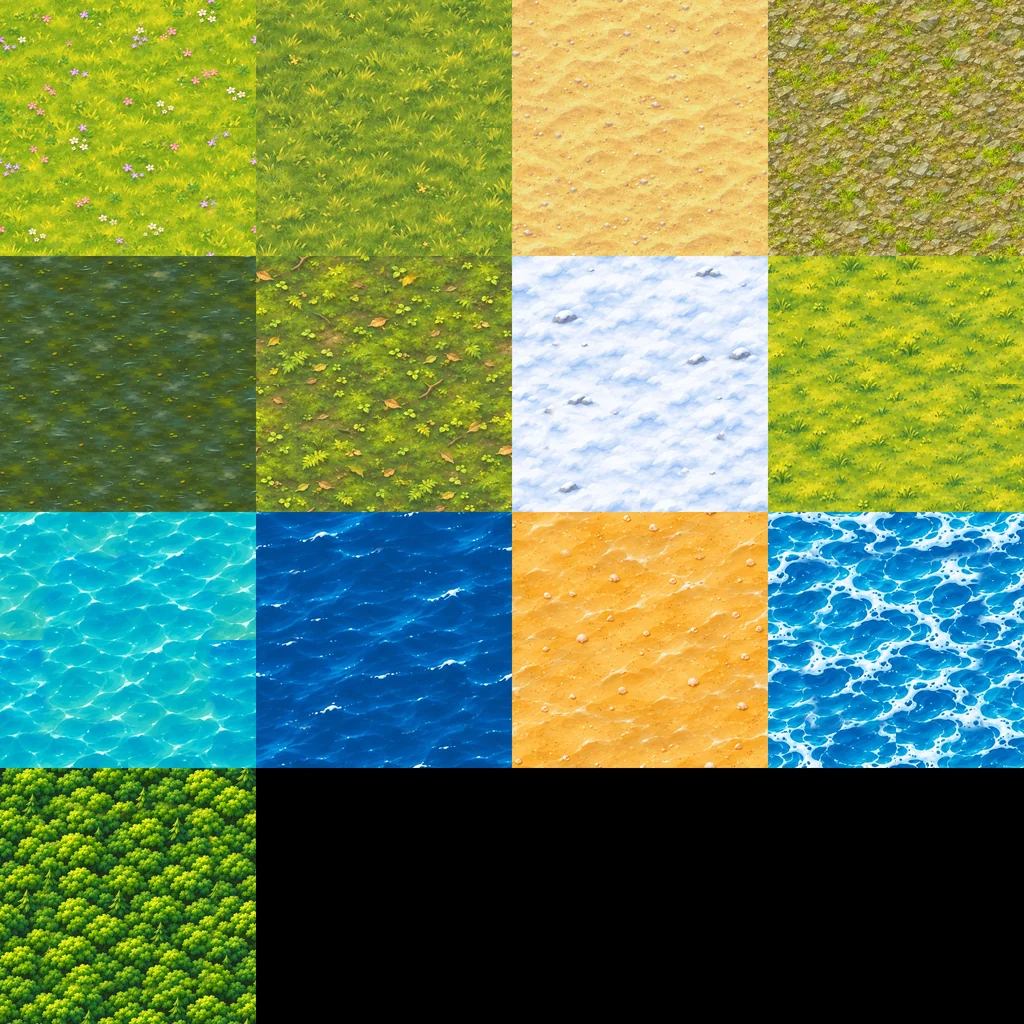
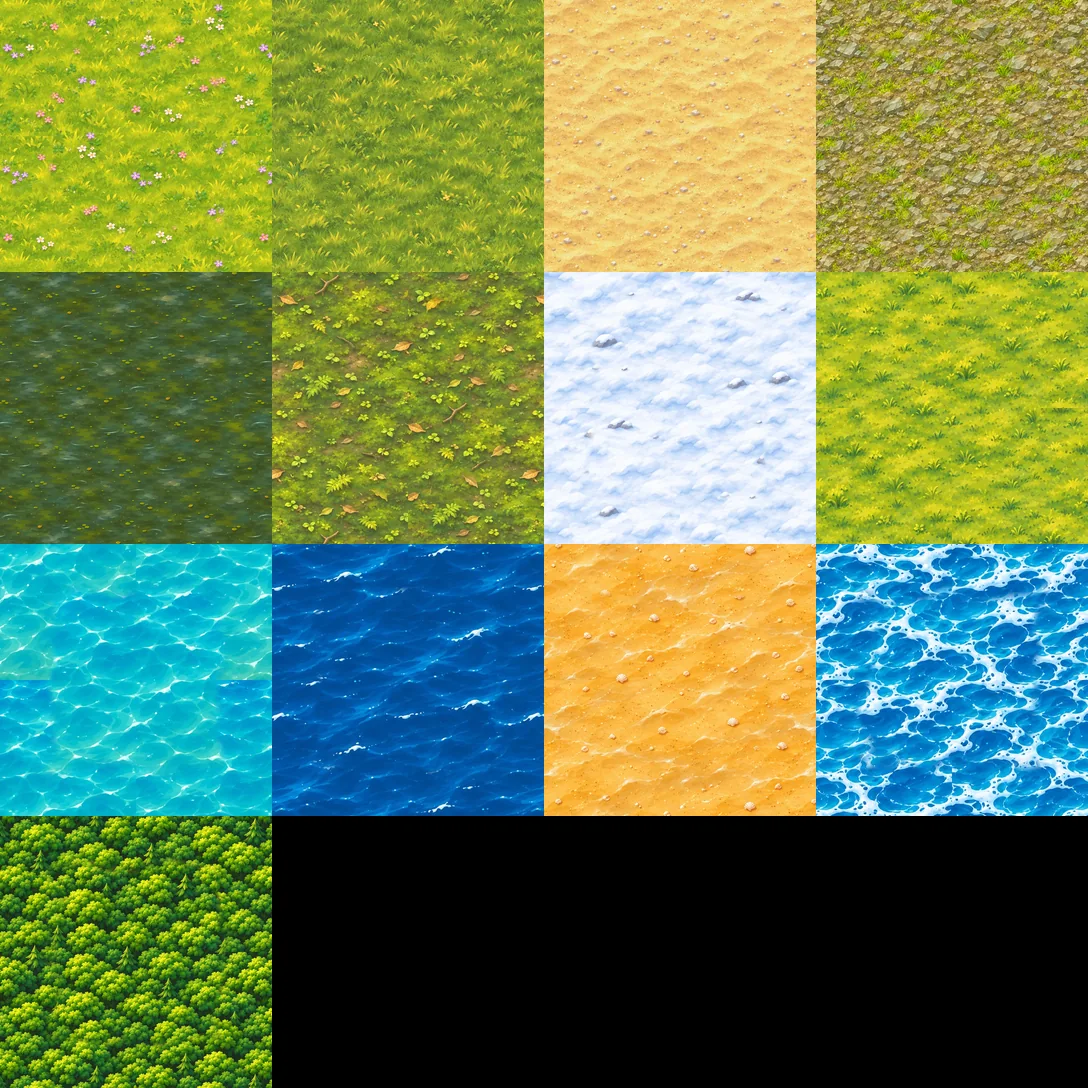
MR2 step 11: no straight line where the ground textures repeat (shallows seam)
WebP's smoothing and the Medium/Low copies' resize of the whole atlas bled each
square's neighbours into its edges, so every ground texture showed a straight line
where it repeats, clearest in the shallows on Low. The atlas is now built per Quality,
each square resized on its own (as a 3x3 tiling, so it stays seamless) and framed in a
wrapped gutter of itself (1/32 a side); PaintedGround cuts the gutter off again.
WebP quality 86 -> 83 keeps the download as it was (725 / 249 / 71 KB).

diff --git a/web/src/game/maproom/painted/PaintedGround.ts b/web/src/game/maproom/painted/PaintedGround.ts
@@ -28,6 +28,13 @@ import type { ProgramWarmer } from "./shaderWarmup";
 /** The ground texture atlas, 4 textures a row (`web/tools/mr2-paint/build.py`). */
 const ATLAS_URL = `${import.meta.env.BASE_URL}maproom/painted/ground@4x.webp`;
 const ATLAS_COLUMNS = 4;
+/**
+ * Each atlas square is its texture framed in a gutter of itself, wrapped, 1/32 of the texture's size
+ * on every side (`web/tools/mr2-paint/build.py`), cut off here: without it WebP's smoothing and the
+ * smaller Qualities' resize bled the neighbouring squares into each texture's edge, a straight line
+ * wherever it repeats (MR2 step 11, clearest in the shallows on Low).
+ */
+export const GROUND_GUTTER = 1 / 32;
 
 /**
  * The sprite sheets the shader places (plan steps 2, 3 and 6): ground details (3 rows), sea rocks
@@ -425,14 +432,16 @@ export class PaintedGround {
       return false;
     }
     if (this.destroyed) return false;
-    const size = (image as { width: number }).width / ATLAS_COLUMNS;
+    const square = (image as { width: number }).width / ATLAS_COLUMNS;
+    const size = Math.round(square / (1 + 2 * GROUND_GUTTER));
+    const gutter = (square - size) / 2;
     const canvases = SHADER_TEXTURES.map((slot) => {
       const canvas = document.createElement("canvas");
       canvas.width = canvas.height = size;
       canvas.getContext("2d")!.drawImage(
         image,
-        (slot % ATLAS_COLUMNS) * size,
-        Math.floor(slot / ATLAS_COLUMNS) * size,
+        (slot % ATLAS_COLUMNS) * square + gutter,
+        Math.floor(slot / ATLAS_COLUMNS) * square + gutter,
         size,
         size,
         0,

diff --git a/web/tools/mr2-paint/build.py b/web/tools/mr2-paint/build.py
@@ -7,12 +7,13 @@ and copied into `source/` by `python build.py --take` from the git-ignored `work
 Textures (2 x 2 sheets and the canopy square) are cut, made seamless (the square is blended with its
 half-rolled copy through a noisy mask, so the wrap seam moves into the middle where the original is
 whole), nudged half-way towards mock-up B's average colour for that ground, and packed into one
-atlas of 512 px squares, `TEXTURE_ORDER` order (the same as `GroundTexture` in
-`web/src/game/maproom/painted/groundKinds.ts`):
+atlas a Quality, `TEXTURE_ORDER` order (the same as `GroundTexture` in
+`web/src/game/maproom/painted/groundKinds.ts`), each square resized on its own and framed in a gutter
+of its own texture, wrapped (1/32 of its size each side, cut off again by `PaintedGround.ts`):
 
-  web/public/maproom/painted/ground@4x.webp   512 px a texture (Quality High)
-  web/public/maproom/painted/ground@2x.webp   256 px (Medium)
-  web/public/maproom/painted/ground.webp      128 px (Low)
+  web/public/maproom/painted/ground@4x.webp   512 px a texture + 16 px gutters (Quality High)
+  web/public/maproom/painted/ground@2x.webp   256 px + 8 (Medium)
+  web/public/maproom/painted/ground.webp      128 px + 4 (Low)
 
 Sprites (decals, sea rocks, cliff pieces, forest bits, marsh and rocks) are keyed out of the magenta
 (`key_out`, the same un-mixing as `web/tools/land-art/build.py`) into one sheet per family, each
@@ -61,6 +62,10 @@ TEXTURE_ORDER: list[tuple[str, str, int | None, tuple[int, int, int, int] | None
     ("canopy", "canopy", None, (1250, 200, 1500, 400)),
 ]
 ATLAS_COLUMNS = 4
+# Each atlas square carries a gutter of its own texture, wrapped, this share of its size on every side
+# (1/32: 16 px High, 8 Medium, 4 Low); `GROUND_GUTTER` in PaintedGround.ts cuts it off again.
+GUTTER_SHARE = 32
+GROUND_QUALITY = 83  # a step under the sprites' 86-90 keeps the gutters within the old download size
 # How far each texture moves to its mock-up B colour (default 0.5). The meadows went further after
 # the first in-game look: they came out greener and darker than mock-up B (hue 82 against 66);
 # the sand came out darker; the marsh came out brown mud where mock-up B has dark wet green.
@@ -83,6 +88,22 @@ def take() -> None:
         if sheet.exists():
             Image.open(sheet).convert("RGB").save(SOURCE / f"{job}.webp", quality=95, method=6)
             print("took", job)
+
+
+# MR2 step 11 (meadow 55%): mock-up B's grass is one bright lime almost everywhere; in game the lush
+# meadow (hills from 140 m, and since step 11 the old rock band 170-184 m too) read as dark olive
+# patches beside it. It moves most of the way to the meadow's own colour (keeping its darker grass
+# blades), so the land reads as one sunny meadow and the hills' light and shade do the rest.
+GRADE_TOWARDS: dict = {}
+
+
+def grade(name: str, square: np.ndarray) -> np.ndarray:
+    """A texture's last colour step after `match_colour` (MR2 step 11 polish)."""
+    if name not in GRADE_TOWARDS:
+        return square
+    target, strength = GRADE_TOWARDS[name]
+    mean = square.reshape(-1, 3).mean(0)
+    return np.clip(square + strength * (np.array(target, dtype=np.float64) - mean), 0, 255)
 
 
 def seamless(square: np.ndarray, seed: int) -> np.ndarray:
@@ -123,18 +144,45 @@ def cut_texture(sheet: str, quadrant: int | None) -> np.ndarray:
     return np.asarray(image.resize((TEXTURE, TEXTURE), Image.LANCZOS), dtype=np.float64)
 
 
+def wrap_resize(square: np.ndarray, size: int) -> np.ndarray:
+    """A seamless square resized to `size` px and still seamless: resized as a 3 x 3 tiling, middle kept
+    (resizing it alone blurs each edge against nothing, which leaves a line where it repeats)."""
+    if square.shape[0] == size:
+        return square
+    tiled = Image.fromarray(np.tile(square, (3, 3, 1)).round().clip(0, 255).astype(np.uint8), "RGB")
+    big = np.asarray(tiled.resize((size * 3, size * 3), Image.LANCZOS), dtype=np.float64)
+    return big[size:2 * size, size:2 * size]
+
+
 def build_textures() -> None:
+    """One atlas a Quality, each square resized on its own and framed in a wrapped gutter
+    (`GROUND_GUTTER` in PaintedGround.ts): WebP's smoothing and a resize of the whole atlas both
+    bled each square's neighbours into its edge, which showed as a straight line where the texture
+    repeats, worst on Low (MR2 step 11, the line in the shallows)."""
     rows = -(-len(TEXTURE_ORDER) // ATLAS_COLUMNS)
-    atlas = Image.new("RGB", (ATLAS_COLUMNS * TEXTURE, rows * TEXTURE))
+    squares: list[np.ndarray | None] = []
     for index, (name, sheet, quadrant, box) in enumerate(TEXTURE_ORDER):
         if not (SOURCE / f"{sheet}.webp").exists():
             print(f"texture {index:2} {name}: no sheet yet")
+            squares.append(None)
             continue
         square = match_colour(seamless(cut_texture(sheet, quadrant), index), box, MATCH_STRENGTH.get(name, 0.5))
-        tile = Image.fromarray(square.round().astype(np.uint8), "RGB")
-        atlas.paste(tile, ((index % ATLAS_COLUMNS) * TEXTURE, (index // ATLAS_COLUMNS) * TEXTURE))
+        squares.append(grade(name, square))
         print(f"texture {index:2} {name}")
-    write_copies(atlas, "ground", quality=86)
+    OUT.mkdir(parents=True, exist_ok=True)
+    for suffix, factor in (("@4x", 1), ("@2x", 2), ("", 4)):
+        inner = TEXTURE // factor
+        gutter = inner // GUTTER_SHARE
+        cell = inner + 2 * gutter
+        atlas = np.zeros((rows * cell, ATLAS_COLUMNS * cell, 3))
+        for index, square in enumerate(squares):
+            if square is None:
+                continue
+            tile = np.pad(wrap_resize(square, inner), ((gutter, gutter), (gutter, gutter), (0, 0)), mode="wrap")
+            x, y = (index % ATLAS_COLUMNS) * cell, (index // ATLAS_COLUMNS) * cell
+            atlas[y:y + cell, x:x + cell] = tile
+        picture = Image.fromarray(atlas.round().clip(0, 255).astype(np.uint8), "RGB")
+        picture.save(OUT / f"ground{suffix}.webp", quality=GROUND_QUALITY, method=6)
 
 
 def key_out(cell: Image.Image) -> Image.Image:
